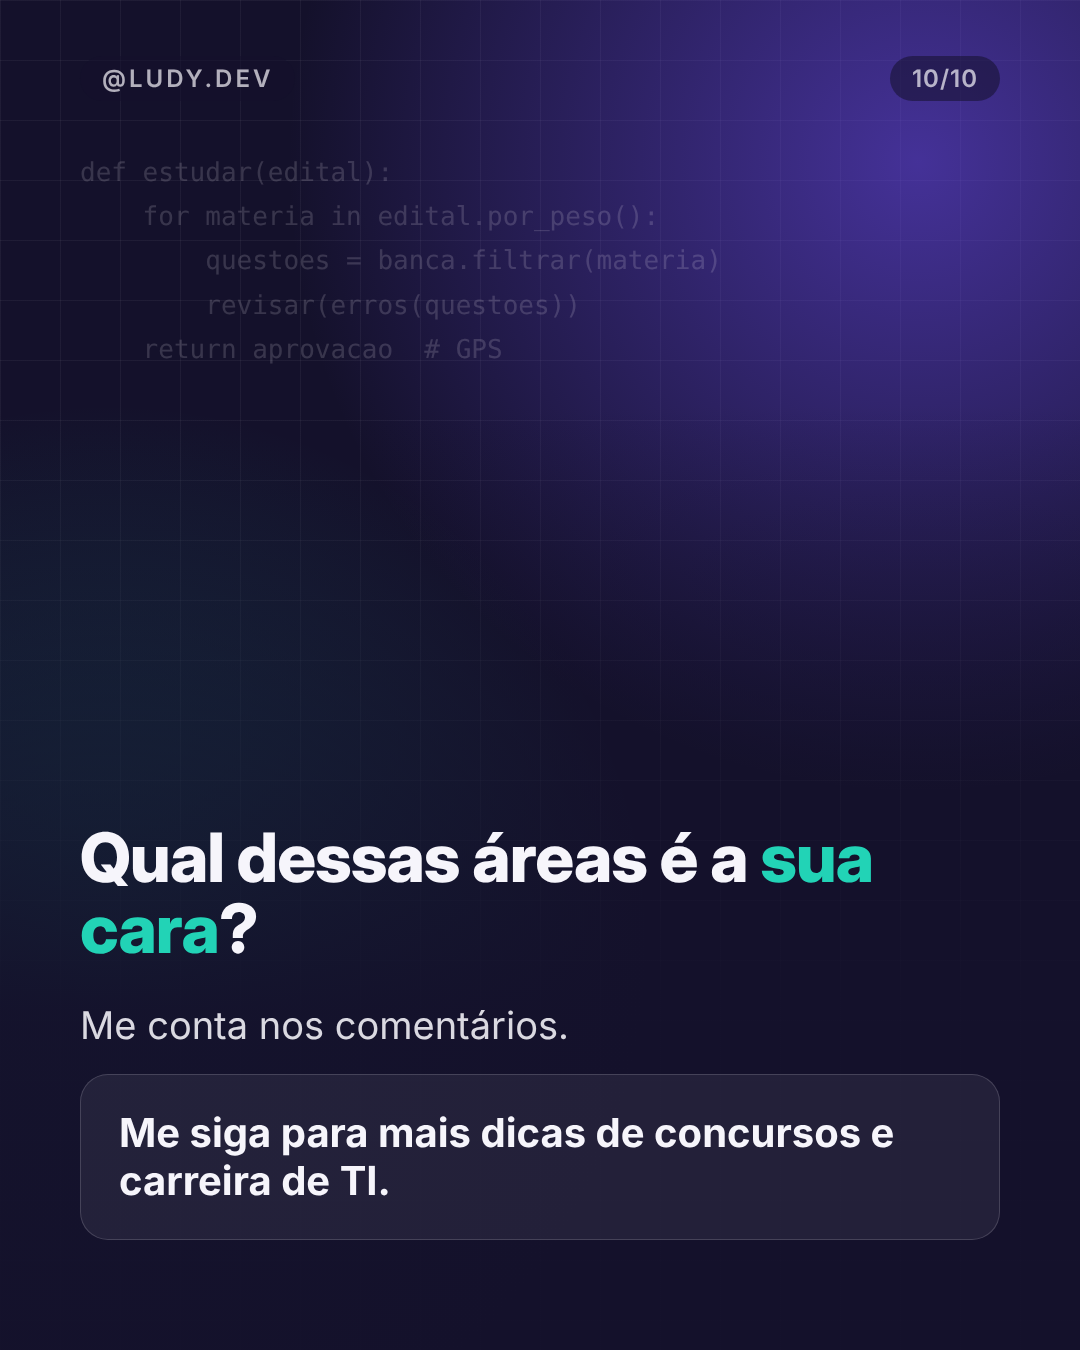
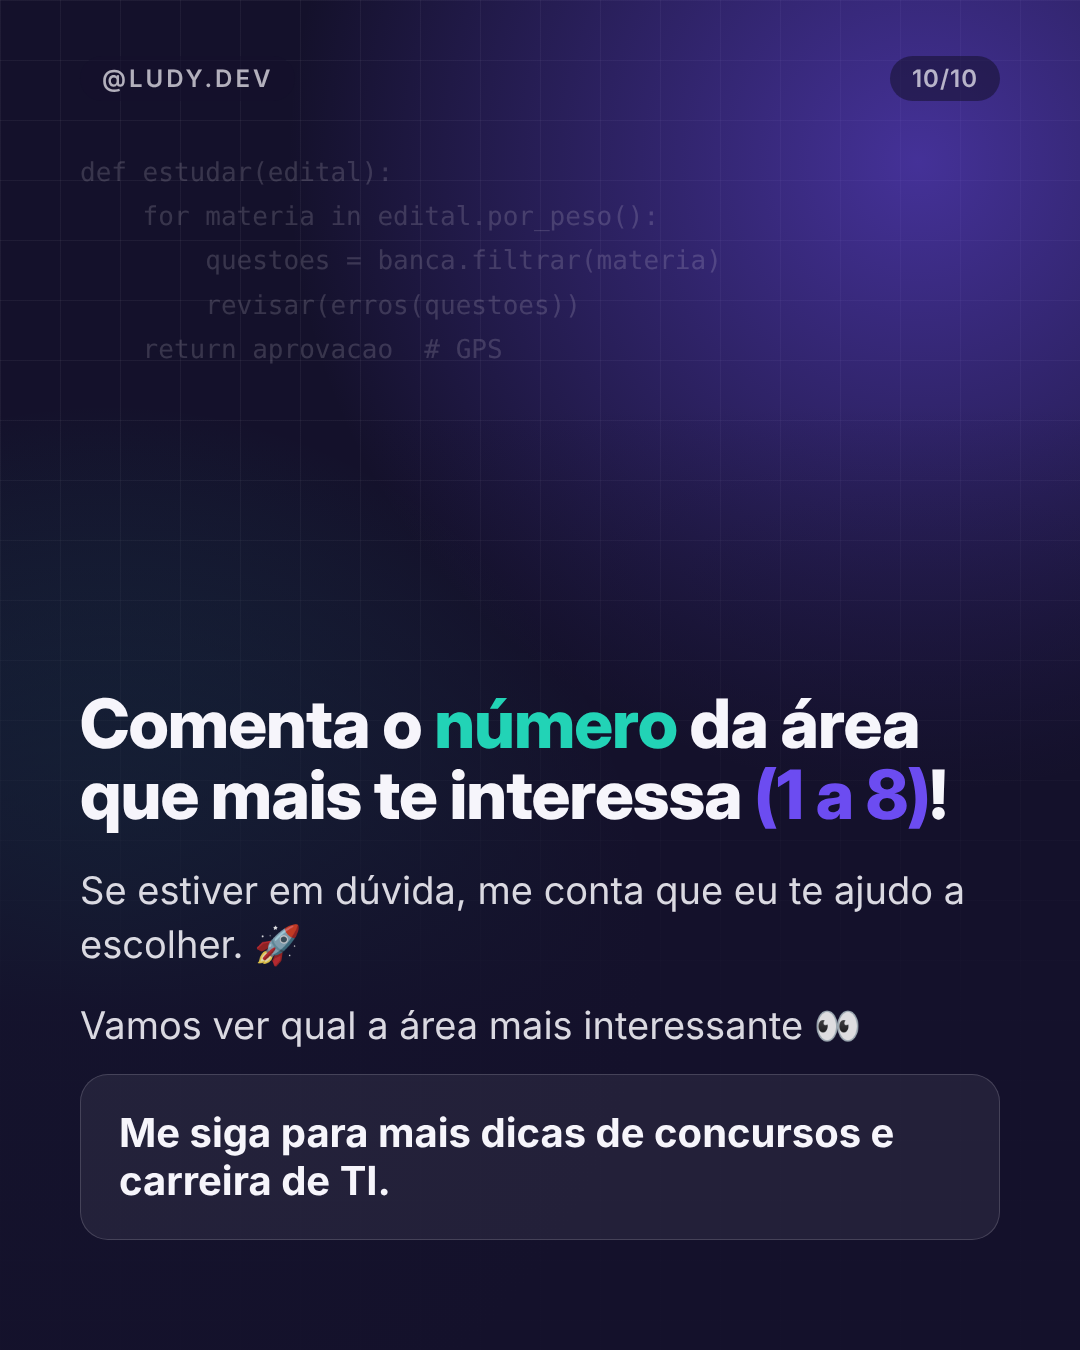
Post 21/10 TI em tribunal: novo CTA no último slide (comentar número da área)
Claude-Session: https://claude.ai/code/session_017fo37zbht4x2d3pfMcu7xf

Changed region(s): [[0.0611, 0.4978, 0.8861, 0.7156], [0.0611, 0.7467, 0.7944, 0.7778]]

diff --git a/_ferramentas/posts_2110.py b/_ferramentas/posts_2110.py
@@ -19,8 +19,11 @@ p1 = [page_a(badge() + '<h1>Como é o trabalho de quem é de <span class="c">TI<
 for i, (icon, nome, desc, f) in enumerate(AREAS, 2):
     p1.append(page_a(f'<span style="font-size:26px;letter-spacing:2px;color:#22D3B6;font-weight:700">ÁREA {i-1} DE 8</span>'
                      f'<h2 style="margin-top:14px">{icon} {nome}</h2><p>{desc}</p>', i, T, top_photo=f"fotos/areas/{f}.jpg", top_h=800))
-p1.append(page_a('<h2>Qual dessas áreas é a <span class="c">sua cara</span>?</h2><p>Me conta nos comentários.</p>'
+LAST = ('<h2>Comenta o <span class="c">número</span> da área que mais te interessa <span class="v">(1 a 8)</span>!</h2>'
+        '<p>Se estiver em dúvida, me conta que eu te ajudo a escolher. 🚀</p>'
+        '<p style="margin-top:28px">Vamos ver qual a área mais interessante 👀</p>')
+p1.append(page_a(LAST +
                  '<div class="card"><div class="t">Me siga para mais dicas de concursos e carreira de TI.</div></div>', T, T))
 
-render(p1, OUT + "/post-1")
+render(p1, OUT + "/post-1")  # atenção: slide_01 foi substituído pela capa do Canva; renderize só o que mudar
 print("ok")
